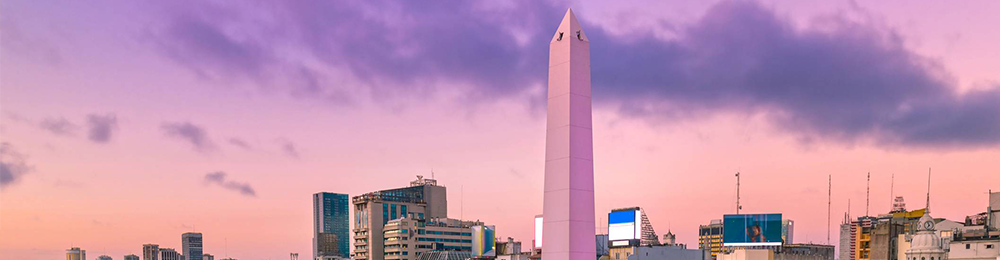
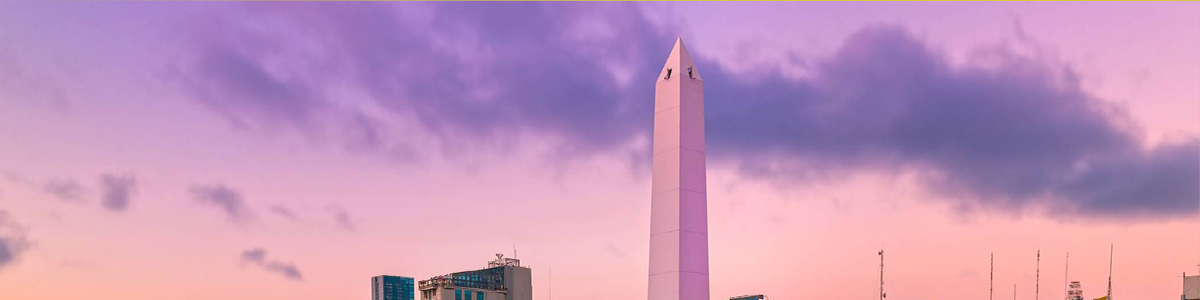
mejora imagenes

diff --git a/blog.html b/blog.html
@@ -10,7 +10,10 @@
     
     <!-- CSS de bootstrap -->
     <link href="https://cdn.jsdelivr.net/npm/bootstrap@5.2.0/dist/css/bootstrap.min.css" rel="stylesheet" integrity="sha384-gH2yIJqKdNHPEq0n4Mqa/HGKIhSkIHeL5AyhkYV8i59U5AR6csBvApHHNl/vI1Bx" crossorigin="anonymous">
-    
+        
+    <!-- Google fonts -->
+    <link href="https://fonts.googleapis.com/css2?family=Montserrat:wght@100;300&display=swap" rel="stylesheet">
+
     <title>Toda la información sobre Buenos Aires</title>
 </head>
 
@@ -54,9 +57,10 @@
                 <div class="col-sm text-center">
                     <p class="lead">Lorem ipsum dolor sit amet consectetur, adipisicing elit. Culpa eligendi similique dicta architecto neque id animi velit sed magni quas?</p>
                 </div>
-                <div class="div d-flex justify-content-center"><img src="/imagenes/logoColor.png" class="img-fluid pt-3" alt="Logo app"></div>
             </div>
         </div>
+        <div class="div"><img src="/imagenes/banner2.png" class="img-fluid" alt="Banner decorativo con imagen de Buenos Aires"></div>
+   
         <!-- articulo activo -->
         <div class="container-fluid article__active">
           <div class="col-sm p-5">
@@ -64,14 +68,14 @@
               Visitar Buenos Aires en primavera
             </h1>
             <div class="article__active--intro p-5">Lorem ipsum dolor sit amet consectetur adipisicing elit. Amet eligendi eveniet incidunt in explicabo, error, earum doloribus sit, corrupti officiis quaerat! Laboriosam nesciunt ut, exercitationem pariatur fugiat praesentium cupiditate saepe quas consequatur eveniet. Suscipit ullam, cumque officiis ipsum molestias natus, atque quis mollitia, fugiat placeat recusandae id? Impedit, nesciunt officiis?</div>
-            <div class="article__active--body">Lorem ipsum dolor sit, amet consectetur adipisicing elit. Iusto incidunt quia non porro aliquam. Dolores sapiente tenetur aliquid aspernatur sint rerum libero, inventore rem minima nisi beatae repellat natus voluptatem excepturi unde dicta facere assumenda temporibus debitis, ratione earum. Iure, commodi vel? Corrupti quos molestias qui. Doloribus sunt optio voluptatem quasi non quos doloremque iste mollitia amet in. Iste tenetur quaerat beatae id, ea harum dolore, perferendis unde blanditiis vitae voluptas mollitia quod, cumque nesciunt placeat quibusdam impedit ullam culpa? Voluptatem officiis unde fugiat corrupti porro impedit repudiandae totam accusamus nisi eaque neque placeat iure, dolore, cum quisquam? Sequi nostrum non obcaecati molestiae, labore vero asperiores ullam et id repellat iste doloremque magni. A nam dolorum iusto architecto nobis rerum illum, sed et. Perferendis fugit officia repellendus. Consequatur quis tenetur esse eveniet ipsam? Amet quam officia iusto ut aperiam ex laudantium deleniti quidem dolore maxime aspernatur sunt maiores, sequi dignissimos qui ab saepe repellat at consequuntur numquam fuga asperiores recusandae, reprehenderit sapiente. Laboriosam maxime dolorum corporis nulla amet obcaecati magni fugit sunt, aliquid id dicta necessitatibus officia pariatur natus quaerat ullam nisi voluptatum vitae enim? Odio in accusamus perspiciatis quam at magnam, provident tempora quidem quos! Consectetur eos perferendis vel quidem neque repellendus nihil quos tenetur, placeat amet at veritatis adipisci delectus ducimus labore aliquid quia, nobis vero reiciendis quibusdam recusandae laboriosam ipsam eius? Qui nam aliquam magnam rem, ea, doloremque eligendi veniam impedit provident necessitatibus sapiente deleniti culpa neque minus iusto perferendis nesciunt, quis vitae expedita? Doloribus fugiat eligendi, soluta dolorum, debitis natus quae eos nesciunt praesentium nobis blanditiis, aut repudiandae sunt laboriosam veritatis officia consectetur eius ex! In ratione, rem eius dolore laudantium vitae, asperiores unde ducimus illo debitis sapiente quae dolorem deleniti perspiciatis eaque, soluta cupiditate. Numquam, expedita. Amet cupiditate officiis, fuga magnam qui saepe nisi? Tenetur, nemo voluptatibus nesciunt dolore nam itaque dolor odit dignissimos non ipsa magni modi tempore. Vitae accusantium recusandae omnis tenetur nihil ea voluptas aperiam ratione? Aliquam iste dignissimos praesentium voluptates nemo temporibus unde pariatur hic ea, soluta placeat! Libero, modi aperiam nulla vero dolorem ut numquam, culpa sapiente quisquam fuga reprehenderit iure velit expedita, earum nesciunt quibusdam veritatis vitae ipsum ad sint id. Iusto quam rerum fugit ipsam facere, culpa impedit harum beatae eum corporis consectetur. Reprehenderit tempora harum rerum earum, veritatis ea, beatae natus numquam fugit magni obcaecati nostrum dolores est placeat aperiam reiciendis illo nisi vero. Adipisci tempora rem at quae quam eaque eius eveniet repudiandae, voluptatum voluptas fugit ipsa, et earum, perferendis quaerat fugiat pariatur vitae amet fuga labore necessitatibus asperiores eum quas nostrum. Eius modi placeat, magni ratione maxime perspiciatis unde magnam blanditiis eveniet totam dignissimos mollitia quod? Sequi, perspiciatis iste! Illum totam dolorem rem voluptatem excepturi expedita iste, hic saepe quam error autem laborum. Nihil provident nulla suscipit atque at. Beatae consequuntur itaque perspiciatis temporibus. Officiis harum laudantium corporis incidunt consequatur maiores illum saepe, tempora, nesciunt itaque commodi at quas earum exercitationem, voluptates dolore excepturi numquam. Atque totam aspernatur voluptatum similique voluptates eveniet soluta assumenda cum.</div>
+            <div class="article__active--body">Lorem ipsum dolor sit amet consectetur adipisicing elit. Modi harum perspiciatis vero sunt rerum at debitis voluptatibus, facilis officia beatae suscipit facere incidunt necessitatibus dolores dicta maiores? Aperiam nesciunt aliquid repudiandae nihil veniam voluptas quae consequatur esse accusantium quisquam. Eaque explicabo facere delectus? Praesentium veniam quos nam dolor provident accusantium! In placeat itaque architecto sed earum nesciunt doloribus illum fugiat quam? Facilis aliquam, dicta voluptatibus sunt inventore molestias dolorum aspernatur quod! Maiores provident tempore quo sint? Esse quos odit cumque, itaque aut consectetur, adipisci cum inventore est labore nostrum nam veritatis minima at omnis, rem vitae! Reiciendis, quia officiis, soluta autem aut sed veritatis magni, at fugiat molestias nemo voluptatum blanditiis adipisci maxime? Nulla rerum mollitia quos illo a magni atque tempora, perferendis sequi in placeat non aliquid dolor debitis vel sunt tenetur voluptate nostrum totam maiores dolore, officiis temporibus eos ipsa? Molestias natus ea hic rem consequatur fugiat. Unde, quaerat deleniti reiciendis animi error non illo officiis iure eveniet amet nostrum tenetur blanditiis. Illo atque blanditiis delectus, eos odit eaque facilis odio assumenda, at repellat obcaecati, numquam amet? Magni earum temporibus maiores qui dolores velit debitis dicta aperiam provident iste quam harum, libero molestiae voluptate minima placeat illo labore praesentium mollitia? Laborum, quas commodi minus earum numquam corrupti blanditiis, molestiae quos provident eveniet assumenda sapiente rerum voluptatum ea praesentium pariatur. Odio veniam illum commodi. Dolorum at unde beatae praesentium nobis autem molestias laborum fugiat. Eius voluptas officia aliquid ipsum deserunt doloribus est recusandae, sit similique dolore aliquam libero culpa nulla optio illum nobis suscipit doloremque amet quia numquam quos. Provident placeat ut facilis veritatis reprehenderit sed sit cupiditate ea eaque repellat officiis nemo accusamus corporis sunt voluptas mollitia a numquam ratione dolores ad, ex iure officia? Doloremque nulla, architecto officia magnam rerum voluptate quam illo tempore unde consequatur beatae.</div>
             <div class="d-flex justify-content-center">
               <figure class="col-sm p-5 figure">
                 <img src="/imagenes/buenosaires5.jpeg" class="figure-img img-fluid rounded" alt="Jacarandas en flor en primavera">
                 <figcaption class="figure-caption">Jacarandas en flor en primavera</figcaption>
               </figure>
             </div>
-             <div class="article__active--body">Lorem ipsum dolor sit, amet consectetur adipisicing elit. Iusto incidunt quia non porro aliquam. Dolores sapiente tenetur aliquid aspernatur sint rerum libero, inventore rem minima nisi beatae repellat natus voluptatem excepturi unde dicta facere assumenda temporibus debitis, ratione earum. Iure, commodi vel? Corrupti quos molestias qui. Doloribus sunt optio voluptatem quasi non quos doloremque iste mollitia amet in. Iste tenetur quaerat beatae id, ea harum dolore, perferendis unde blanditiis vitae voluptas mollitia quod, cumque nesciunt placeat quibusdam impedit ullam culpa? Voluptatem officiis unde fugiat corrupti porro impedit repudiandae totam accusamus nisi eaque neque placeat iure, dolore, cum quisquam? Sequi nostrum non obcaecati molestiae, labore vero asperiores ullam et id repellat iste doloremque magni. A nam dolorum iusto architecto nobis rerum illum, sed et. Perferendis fugit officia repellendus. Consequatur quis tenetur esse eveniet ipsam? Amet quam officia iusto ut aperiam ex laudantium deleniti quidem dolore maxime aspernatur sunt maiores, sequi dignissimos qui ab saepe repellat at consequuntur numquam fuga asperiores recusandae, reprehenderit sapiente. Laboriosam maxime dolorum corporis nulla amet obcaecati magni fugit sunt, aliquid id dicta necessitatibus officia pariatur natus quaerat ullam nisi voluptatum vitae enim? Odio in accusamus perspiciatis quam at magnam, provident tempora quidem quos! Consectetur eos perferendis vel quidem neque repellendus nihil quos tenetur, placeat amet at veritatis adipisci delectus ducimus labore aliquid quia, nobis vero reiciendis quibusdam recusandae laboriosam ipsam eius? Qui nam aliquam magnam rem, ea, doloremque eligendi veniam impedit provident necessitatibus sapiente deleniti culpa neque minus iusto perferendis nesciunt, quis vitae expedita? Doloribus fugiat eligendi, soluta dolorum, debitis natus quae eos nesciunt praesentium nobis blanditiis, aut repudiandae sunt laboriosam veritatis officia consectetur eius ex! In ratione, rem eius dolore laudantium vitae, asperiores unde ducimus illo debitis sapiente quae dolorem deleniti perspiciatis eaque, soluta cupiditate. Numquam, expedita. Amet cupiditate officiis, fuga magnam qui saepe nisi? Tenetur, nemo voluptatibus nesciunt dolore nam itaque dolor odit dignissimos non ipsa magni modi tempore. Vitae accusantium recusandae omnis tenetur nihil ea voluptas aperiam ratione? Aliquam iste dignissimos praesentium voluptates nemo temporibus unde pariatur hic ea, soluta placeat! Libero, modi aperiam nulla vero dolorem ut numquam, culpa sapiente quisquam fuga reprehenderit iure velit expedita, earum nesciunt quibusdam veritatis vitae ipsum ad sint id. Iusto quam rerum fugit ipsam facere, culpa impedit harum beatae eum corporis consectetur. Reprehenderit tempora harum rerum earum, veritatis ea, beatae natus numquam fugit magni obcaecati nostrum dolores est placeat aperiam reiciendis illo nisi vero. Adipisci tempora rem at quae quam eaque eius eveniet repudiandae, voluptatum voluptas fugit ipsa, et earum, perferendis quaerat fugiat pariatur vitae amet fuga labore necessitatibus asperiores eum quas nostrum. Eius modi placeat, magni ratione maxime perspiciatis unde magnam blanditiis eveniet totam dignissimos mollitia quod? Sequi, perspiciatis iste! Illum totam dolorem rem voluptatem excepturi expedita iste, hic saepe quam error autem laborum. Nihil provident nulla suscipit atque at. Beatae consequuntur itaque perspiciatis temporibus. Officiis harum laudantium corporis incidunt consequatur maiores illum saepe, tempora, nesciunt itaque commodi at quas earum exercitationem, voluptates dolore excepturi numquam. Atque totam aspernatur voluptatum similique voluptates eveniet soluta assumenda cum.</div>
+            <div class="article__active--body">Lorem ipsum dolor sit amet consectetur adipisicing elit. Nam, tenetur labore cum vel, dolores libero quo consequuntur aut voluptate dicta doloremque. Expedita qui sunt ad dolore unde pariatur recusandae ipsam sit, earum cumque iste in hic reiciendis. Ipsum esse, quos quis saepe, rerum aspernatur modi, aperiam voluptatum numquam itaque placeat! Ratione velit quos, cupiditate vitae eveniet impedit repellendus necessitatibus facilis eligendi, maxime consequuntur asperiores dolore! Ex veritatis blanditiis tempora dolor a mollitia ipsum quibusdam quia. Cum iste, sapiente, magni sequi, recusandae repellendus quod saepe error harum accusantium culpa. Deserunt ab ullam optio hic, eligendi perferendis id et tempora doloribus cum corporis iusto illo obcaecati tenetur commodi consequatur numquam quisquam ipsa eaque incidunt maxime natus qui explicabo facere. Magnam vel labore ipsam delectus sed facilis minima sapiente maiores nesciunt fugiat possimus, iure consequatur odit quisquam modi quaerat. Omnis recusandae quibusdam pariatur explicabo ad est inventore eligendi tempora eius doloribus! Quia necessitatibus possimus sequi sit dolorum fugiat unde alias quod distinctio perferendis nisi dolores, eveniet eligendi dignissimos, consequatur exercitationem odit. Beatae, sit commodi. Corporis, dicta ullam esse possimus saepe labore fuga corrupti quam, nobis culpa unde, quos aliquid nostrum cumque iste eaque ipsam eveniet temporibus maiores qui dolorum quas ea distinctio accusantium! Velit animi doloremque pariatur quod impedit reprehenderit, corrupti eum ad aliquid ducimus, aut vero optio, recusandae eveniet perspiciatis quaerat fuga! Mollitia veritatis ad magni reprehenderit veniam. Ullam voluptate nobis ad, consequuntur nemo tenetur sequi quod molestiae, inventore a ab doloremque, dolores non aspernatur debitis repudiandae sit natus magni? Magnam obcaecati pariatur quod aperiam corrupti, doloremque et odio placeat totam error sunt aliquam corporis maiores, animi quibusdam eaque ducimus consequatur! Rerum excepturi officia a sed cumque quia vitae quas, deserunt saepe? Tenetur et ipsam temporibus est, soluta doloribus harum accusamus velit? Quibusdam sunt adipisci dolore, nisi voluptas eveniet facilis modi recusandae dolor at et vitae perferendis aut numquam libero obcaecati incidunt totam, sapiente quasi facere similique quos accusantium necessitatibus. Voluptas iusto, ex similique voluptates sapiente deserunt accusantium, laboriosam, quasi minus iste eos voluptatibus nihil! Praesentium cupiditate doloribus necessitatibus, tempora nihil ad quae incidunt voluptas distinctio saepe rem libero dignissimos minus consequatur ratione sunt ab fugiat cum blanditiis! Dolorem quas, recusandae natus rerum mollitia enim quam alias quis neque accusamus corrupti quos dignissimos? Dicta reprehenderit mollitia eos, expedita quod, quas omnis doloremque praesentium, molestias quibusdam incidunt odit! Illum repudiandae, veniam unde corrupti autem blanditiis inventore aut quod magni minus quaerat error doloribus!</div>
           </div>
         </div>
 

diff --git a/preguntas.html b/preguntas.html
@@ -53,10 +53,10 @@
                 <div class="col-sm text-center">
                     <p class="lead">Lorem ipsum dolor sit amet consectetur, adipisicing elit. Culpa eligendi similique dicta architecto neque id animi velit sed magni quas?</p>
                 </div>
-            </div>
-            <div class="div d-flex justify-content-center"><img src="/imagenes/logoColor.png" class="img-fluid p-3" alt="Logo app"></div>
-            
+            </div> 
         </div>
+        <div class="div"><img src="/imagenes/banner2.png" class="img-fluid" alt="Banner decorativo con imagen de Buenos Aires"></div>
+           
         <!-- preguntas -->
         <div class="accordion pt-5" id="accordionExample">
             <div class="accordion-item">

diff --git a/recorridos.html b/recorridos.html
@@ -8,10 +8,12 @@
 
     <link rel="stylesheet" href="css/style.css">
 
-    
     <!-- CSS de bootstrap -->
     <link href="https://cdn.jsdelivr.net/npm/bootstrap@5.2.0/dist/css/bootstrap.min.css" rel="stylesheet" integrity="sha384-gH2yIJqKdNHPEq0n4Mqa/HGKIhSkIHeL5AyhkYV8i59U5AR6csBvApHHNl/vI1Bx" crossorigin="anonymous">
-    
+        
+    <!-- Google fonts -->
+    <link href="https://fonts.googleapis.com/css2?family=Montserrat:wght@100;300&display=swap" rel="stylesheet">
+
     <title>Información turística de Buenos Aires</title>
 </head>
 

diff --git a/app.html b/app.html
@@ -10,7 +10,10 @@
     
     <!-- CSS de bootstrap -->
     <link href="https://cdn.jsdelivr.net/npm/bootstrap@5.2.0/dist/css/bootstrap.min.css" rel="stylesheet" integrity="sha384-gH2yIJqKdNHPEq0n4Mqa/HGKIhSkIHeL5AyhkYV8i59U5AR6csBvApHHNl/vI1Bx" crossorigin="anonymous">
-    
+   
+    <!-- Google fonts -->
+    <link href="https://fonts.googleapis.com/css2?family=Montserrat:wght@100;300&display=swap" rel="stylesheet">
+
     <title>Buenos Aires: App para visitar lugares turísticos</title>
 </head>
 

diff --git a/nosotros.html b/nosotros.html
@@ -10,7 +10,10 @@
     
     <!-- CSS de bootstrap -->
     <link href="https://cdn.jsdelivr.net/npm/bootstrap@5.2.0/dist/css/bootstrap.min.css" rel="stylesheet" integrity="sha384-gH2yIJqKdNHPEq0n4Mqa/HGKIhSkIHeL5AyhkYV8i59U5AR6csBvApHHNl/vI1Bx" crossorigin="anonymous">
-    
+        
+    <!-- Google fonts -->
+    <link href="https://fonts.googleapis.com/css2?family=Montserrat:wght@100;300&display=swap" rel="stylesheet">
+
     <title>App para visitar Buenos Aires gratis</title>
 </head>
 

diff --git a/index.html b/index.html
@@ -17,7 +17,6 @@
     <!-- Google fonts -->
     <link href="https://fonts.googleapis.com/css2?family=Montserrat:wght@100;300&display=swap" rel="stylesheet">
 
-
     <title>Buenos Aires: Visitar lugares turísticos de Buenos Aires</title>
 </head>
 
